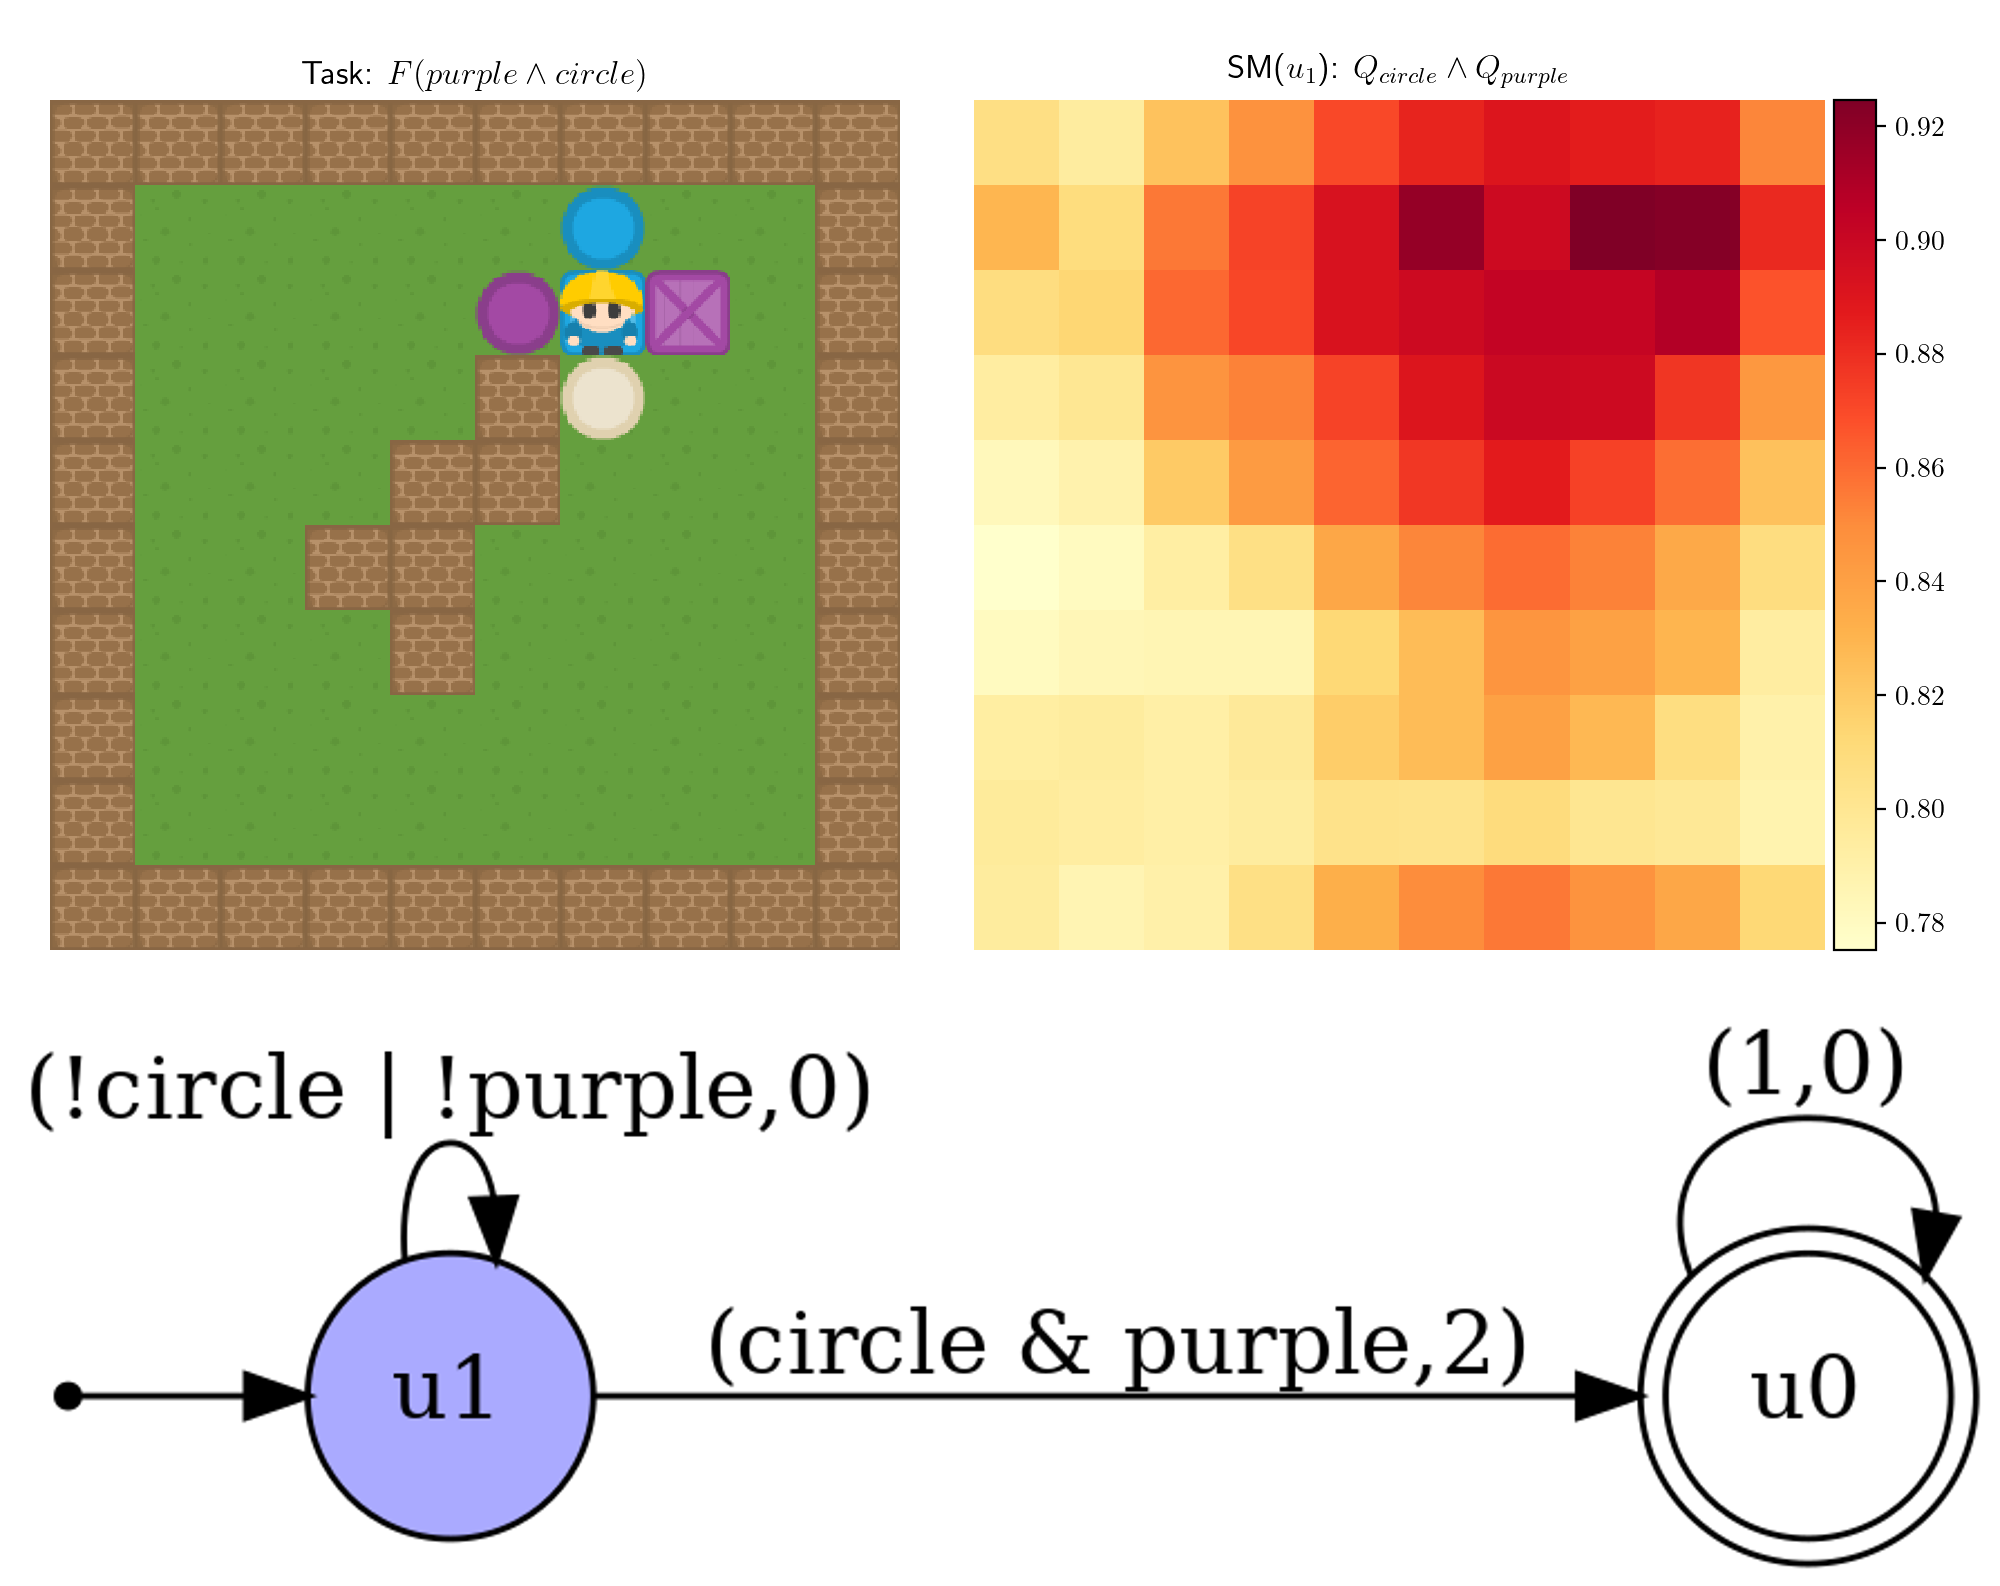
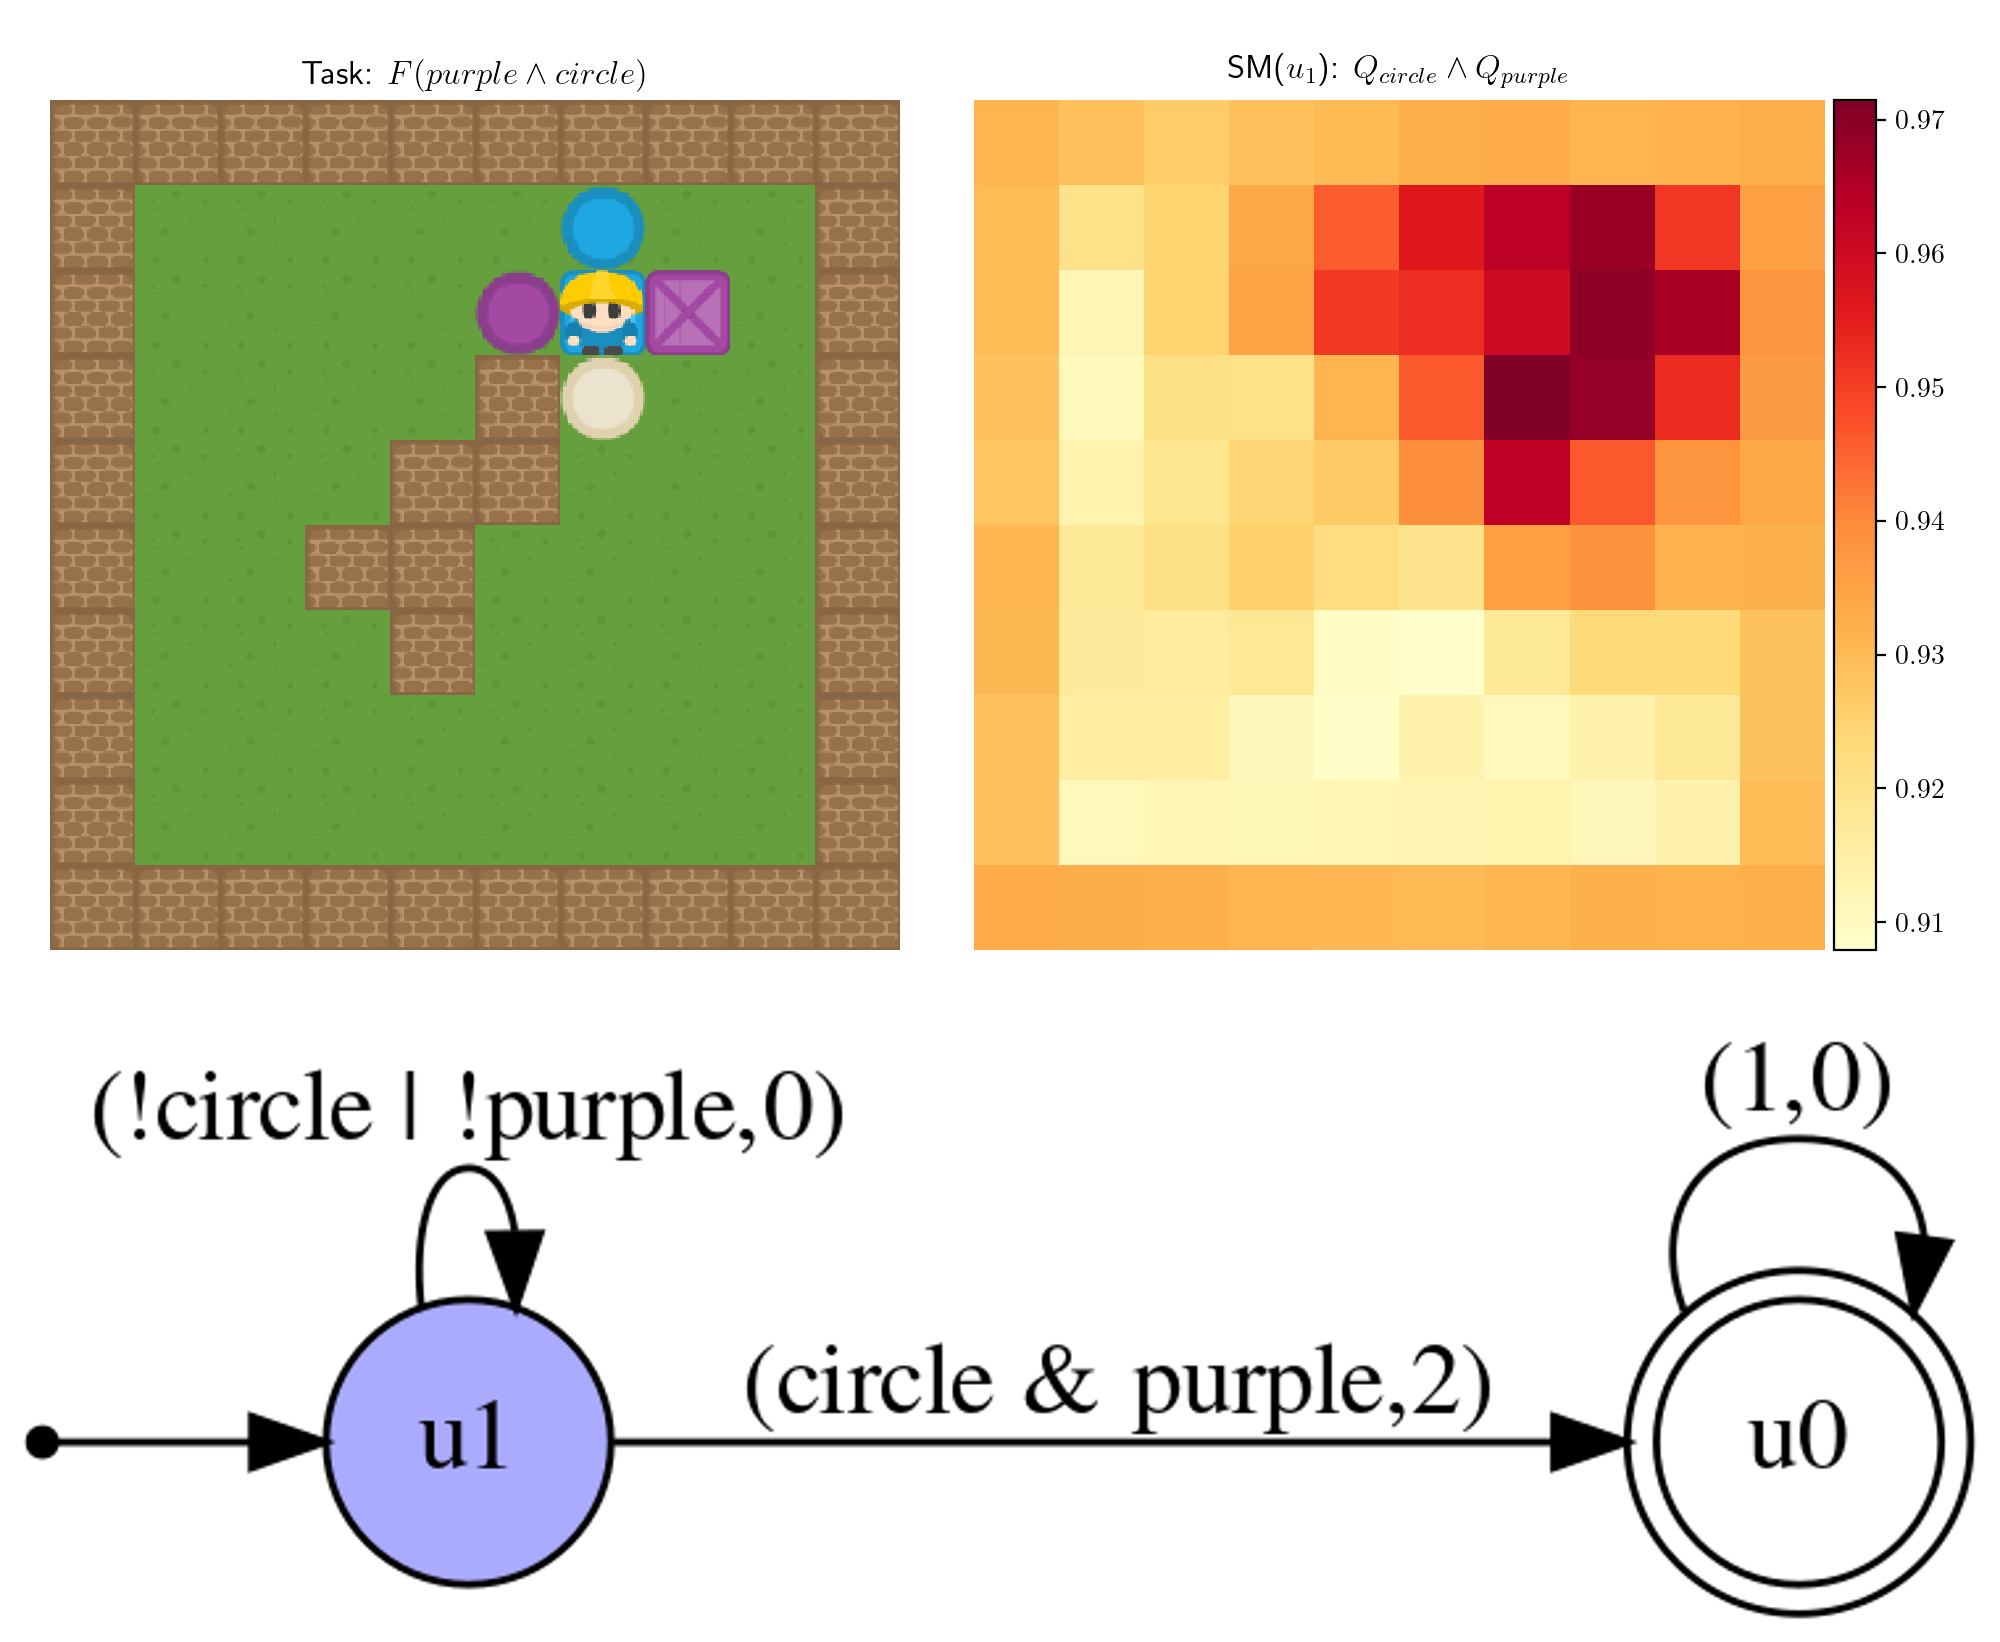
observation changed from egocentric to img of the board

Changed region(s): [[0.0, 0.0309, 0.992, 0.9887], [0.868, 0.8342, 0.93, 0.896]]

diff --git a/envs/moving_targets/moving_targets.py b/envs/moving_targets/moving_targets.py
@@ -133,6 +133,7 @@ class CollectEnv(gym.Env):
 
     SPRITE_SIZE = 50
 
+
     def __init__(self, board='original', obs_scale=5, available_collectibles=None, start_positions=None, random_objects=False, random_player=True, seed=None, render_mode="rgb_array"):
         """
         Create a new instance of the RepoMan environment. The observation space is a single RGB image of size 400x400,
@@ -164,6 +165,7 @@ class CollectEnv(gym.Env):
         self.board = np.array([list(row) for row in self._BOARDS[board]])
         self.free_spaces = list(map(tuple, np.argwhere(self.board != '#')))
         self.SCREEN_SIZE = (self.board.shape[0]*self.SPRITE_SIZE, self.board.shape[1]*self.SPRITE_SIZE)
+        # self.SCREEN_SIZE = (400, 400)
         self._bestdepth = pygame.display.mode_ok(self.SCREEN_SIZE, 0, 32)
         self.surface = pygame.Surface(self.SCREEN_SIZE, 0, self._bestdepth)
         self._background = pygame.Surface(self.SCREEN_SIZE)
@@ -186,6 +188,7 @@ class CollectEnv(gym.Env):
         
         # Gym spaces for observation and action space
         self.observation_space = Box(low=0, high=255, shape=[self.SCREEN_SIZE[0]//self.obs_scale, self.SCREEN_SIZE[1]//self.obs_scale, 3], dtype=np.uint8)
+        # self.observation_space = Box(0, 255, [self.SCREEN_SIZE[0], self.SCREEN_SIZE[1], 3], dtype=int)
         self.actions = dict(up = 0, right = 1, down = 2, left = 3)
         self.action_space = Discrete(len(self.actions),seed=seed)
 
@@ -216,6 +219,7 @@ class CollectEnv(gym.Env):
         return observation
 
     def get_obs(self):
+        # return self.draw_screen(self.surface)
         return self.draw_screen(self.surface,size=self.observation_space.shape[:2])
 
     def reset(self, seed=None, **kwargs):
@@ -257,6 +261,7 @@ class CollectEnv(gym.Env):
                 
         obs = self.draw_screen(self.surface,size=self.observation_space.shape[:2])
         return obs, {}
+        # return self.draw_screen(self.surface), {}
 
     def step(self, action):    
         self.collected = []
@@ -267,11 +272,11 @@ class CollectEnv(gym.Env):
             self.player.step(direction)
         
         self.collected = pygame.sprite.spritecollide(self.player, self.collectibles, False)
-        if self.collected and self.random_objects:
-            position = tuple(self.np_random.choice(list(self.free_spaces)))
-            self.free_spaces = self.free_spaces - set([position])
-            self.free_spaces.add(self.player.position)
-            self.collected[0].reset(position)
+        # if self.collected and self.random_objects:
+        #     position = tuple(self.np_random.choice(list(self.free_spaces)))
+        #     self.free_spaces = self.free_spaces - set([position])
+        #     self.free_spaces.add(self.player.position)
+        #     self.collected[0].reset(position)
              
         obs = self.get_obs()
         return obs, 0, False, False, {}
@@ -306,28 +311,29 @@ class MovingTargets(gym.core.ObservationWrapper):
     def observation(self, obs): 
         """Make the observations egocentric""" 
          
-        s = obs.shape[0]
-        st = self.env.unwrapped.SPRITE_SIZE//self.obs_scale
-        y, x = self.env.unwrapped.player.position[0]*st, self.env.unwrapped.player.position[1]*st
+        # s = obs.shape[0]
+        # st = self.env.unwrapped.SPRITE_SIZE//self.obs_scale
+        # y, x = self.env.unwrapped.player.position[0]*st, self.env.unwrapped.player.position[1]*st
 
-        # Egocentric position
-        ox = s//2-x    
-        rgb_img = obs.copy()
-        if ox>=0:
-            rgb_img[:,ox:s//2,:] = obs[:,:x,:]    
-            rgb_img[:,s//2:,:] = obs[:,x:x+s//2+s%2,:]   
-            rgb_img[:,:ox,:] = obs[:,x+s//2+s%2:,:]   
-        else:
-            ox = s+ox
-            rgb_img[:,s//2:ox,:] = obs[:,x:,:]    
-            rgb_img[:,:s//2,:] = obs[:,x-s//2:x,:]   
-            rgb_img[:,ox:,:] = obs[:,:x-s//2,:]    
-        obs = rgb_img.copy()
-        rgb_img[s-(y+st):,:,:] = obs[:y+st,:,:] 
-        rgb_img[:s-(y+st),:,:] = obs[y+st:,:,:] 
+        # # Egocentric position
+        # ox = s//2-x    
+        # rgb_img = obs.copy()
+        # if ox>=0:
+        #     rgb_img[:,ox:s//2,:] = obs[:,:x,:]    
+        #     rgb_img[:,s//2:,:] = obs[:,x:x+s//2+s%2,:]   
+        #     rgb_img[:,:ox,:] = obs[:,x+s//2+s%2:,:]   
+        # else:
+        #     ox = s+ox
+        #     rgb_img[:,s//2:ox,:] = obs[:,x:,:]    
+        #     rgb_img[:,:s//2,:] = obs[:,x-s//2:x,:]   
+        #     rgb_img[:,ox:,:] = obs[:,:x-s//2,:]    
+        # obs = rgb_img.copy()
+        # rgb_img[s-(y+st):,:,:] = obs[:y+st,:,:] 
+        # rgb_img[:s-(y+st),:,:] = obs[y+st:,:,:] 
         
-        return cv2.resize(rgb_img, dsize=self.observation_space.shape[:2], interpolation=cv2.INTER_AREA)
-    
+        # return cv2.resize(rgb_img, dsize=self.observation_space.shape[:2], interpolation=cv2.INTER_AREA)
+        return cv2.resize(obs, dsize=self.observation_space.shape[:2], interpolation=cv2.INTER_AREA)
+
     def render(self, *args, **kwargs):    
         if self.render_params["skill"]: 
             return self.render_skill(self.render_params["skill"], self.render_params["state"], self.render_params["task_title"], self.render_params["skill_title"], self.render_params["dpi"])
@@ -409,28 +415,28 @@ class StaticTargets(gym.core.ObservationWrapper):
 
     def observation(self, obs): 
         """Make the observations egocentric""" 
-         
-        s = obs.shape[0]
-        st = self.env.unwrapped.SPRITE_SIZE//self.obs_scale
-        y, x = self.env.unwrapped.player.position[0]*st, self.env.unwrapped.player.position[1]*st
 
-        # Egocentric position
-        ox = s//2-x    
-        rgb_img = obs.copy()
-        if ox>=0:
-            rgb_img[:,ox:s//2,:] = obs[:,:x,:]    
-            rgb_img[:,s//2:,:] = obs[:,x:x+s//2+s%2,:]   
-            rgb_img[:,:ox,:] = obs[:,x+s//2+s%2:,:]   
-        else:
-            ox = s+ox
-            rgb_img[:,s//2:ox,:] = obs[:,x:,:]    
-            rgb_img[:,:s//2,:] = obs[:,x-s//2:x,:]   
-            rgb_img[:,ox:,:] = obs[:,:x-s//2,:]    
-        obs = rgb_img.copy()
-        rgb_img[s-(y+st):,:,:] = obs[:y+st,:,:] 
-        rgb_img[:s-(y+st),:,:] = obs[y+st:,:,:] 
+        # s = obs.shape[0]
+        # st = self.env.unwrapped.SPRITE_SIZE//self.obs_scale
+        # y, x = self.env.unwrapped.player.position[0]*st, self.env.unwrapped.player.position[1]*st
+
+        # # Egocentric position
+        # ox = s//2-x    
+        # rgb_img = obs.copy()
+        # if ox>=0:
+        #     rgb_img[:,ox:s//2,:] = obs[:,:x,:]    
+        #     rgb_img[:,s//2:,:] = obs[:,x:x+s//2+s%2,:]   
+        #     rgb_img[:,:ox,:] = obs[:,x+s//2+s%2:,:]   
+        # else:
+        #     ox = s+ox
+        #     rgb_img[:,s//2:ox,:] = obs[:,x:,:]    
+        #     rgb_img[:,:s//2,:] = obs[:,x-s//2:x,:]   
+        #     rgb_img[:,ox:,:] = obs[:,:x-s//2,:]    
+        # obs = rgb_img.copy()
+        # rgb_img[s-(y+st):,:,:] = obs[:y+st,:,:] 
+        # rgb_img[:s-(y+st),:,:] = obs[y+st:,:,:] 
         
-        return cv2.resize(rgb_img, dsize=self.observation_space.shape[:2], interpolation=cv2.INTER_AREA)
+        return cv2.resize(obs, dsize=self.observation_space.shape[:2], interpolation=cv2.INTER_AREA)
     
     def render(self, *args, **kwargs):    
         if self.render_params["skill"]: 

diff --git a/envs/moving_targets/__init__.py b/envs/moving_targets/__init__.py
@@ -38,11 +38,11 @@ class SquareTask(gym.Wrapper):
         task = Task(env, "G (F square)", accept_terminal=False, rmax=2, **kwargs)
         super().__init__(task)
 
-class SquareTask(gym.Wrapper):
+class SquareStaticTask(gym.Wrapper):
     metadata = {'render_modes': ['human','rgb_array'], "render_fps": 10}
     def __init__(self, **kwargs):
         """Pick up any object. Repeat this forever."""
-        env = gym.make("MovingTargets-v0", render_mode=kwargs['render_mode'] if "render_mode" in kwargs else "human")
+        env = gym.make("StaticTargets-v0", render_mode=kwargs['render_mode'] if "render_mode" in kwargs else "human")
         task = Task(env, "G (F square)", accept_terminal=False, rmax=2, **kwargs)
         super().__init__(task)
 
@@ -206,6 +206,11 @@ gym.envs.registration.register(
     id='MovingTargets-Square-Task-v0',
     max_episode_steps=100, 
     entry_point=SquareTask,
+)
+gym.envs.registration.register(
+    id='StaticTargets-Square-Task-v0',
+    max_episode_steps=100, 
+    entry_point=SquareStaticTask,
 )
 gym.envs.registration.register(
     id='MovingTargets-Task-1-v0',

diff --git a/enjoy.py b/enjoy.py
@@ -59,7 +59,7 @@ if __name__ == "__main__":
         save_path = args.save_path if args.save_path else f"./images/fewshot_{args.env}_{args.ltl}.gif"
     else:
         primitive_env = TaskPrimitive(task_env.environment, sb3=args.algo!="ql")
-        primitive_env.goals.update(torch.load(sp_dir+"goals")) 
+        primitive_env.goals.update(torch.load(sp_dir+"goals", weights_only=False)) 
         if args.algo=="ql":    SP = {primitive: QLAgent(primitive, primitive_env, save_dir=sp_dir, load=True) for primitive in ['0','1']}
         elif args.algo=="dqn": SP = {primitive: DQNAgent("wvf_"+primitive, primitive_env, save_dir=sp_dir, load=True, buffer_size=1) for primitive in ['0','1']}
         elif args.algo=="td3": SP = {primitive: TD3Agent("wvf_"+primitive, primitive_env, save_dir=sp_dir, load=True, buffer_size=1) for primitive in ['0','1']}
